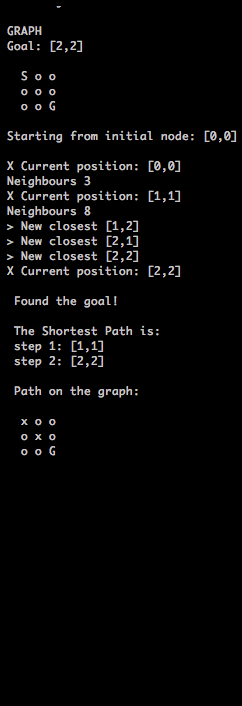
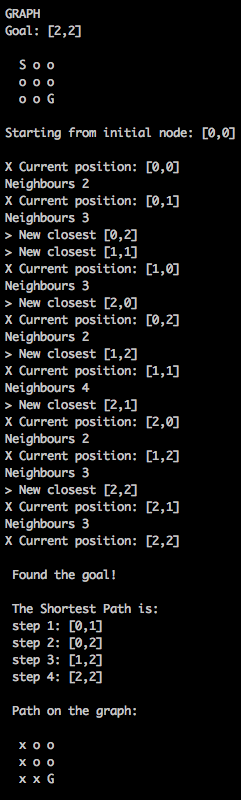
readme with examples

diff --git a/README.md b/README.md
@@ -15,3 +15,7 @@ yarn
 node index.js
 ```
    **NOTE:** To use diagonal grid, you need to uncomment code in a_star.js
+
+| Square Grid  | Diagonal Grid |
+| ------------- | ------------- |
+| ![](https://github.com/mateuszjanusz/ai-coursework/blob/master/examples/square.png?raw=true)  | ![](https://github.com/mateuszjanusz/ai-coursework/blob/master/examples/diagonal.png?raw=true)  |
